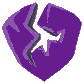
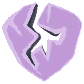
Èncore power image + redo of evasiveness

diff --git a/mysteryDungeon/src/main/java/mysteryDungeon/powers/EncorePower.java b/mysteryDungeon/src/main/java/mysteryDungeon/powers/EncorePower.java
@@ -35,8 +35,8 @@ public class EncorePower extends MysteryDungeonPower implements CloneablePowerIn
 
     // We create 2 new textures *Using This Specific Texture Loader* - an 84x84 image and a 32x32 one.
     // There's a fallback "missing texture" image, so the game shouldn't crash if you accidentally put a non-existent file.
-    private static final Texture tex84 = TextureLoader.getTexture(makePowerPath("placeholder_power84.png"));
-    private static final Texture tex32 = TextureLoader.getTexture(makePowerPath("placeholder_power32.png"));
+    private static final Texture tex84 = TextureLoader.getTexture(makePowerPath(EncorePower.class.getSimpleName()+"84.png"));
+    private static final Texture tex32 = TextureLoader.getTexture(makePowerPath(EncorePower.class.getSimpleName()+"32.png"));
 
     public EncorePower(final AbstractCreature owner, final int amount) {
         name = NAME;
